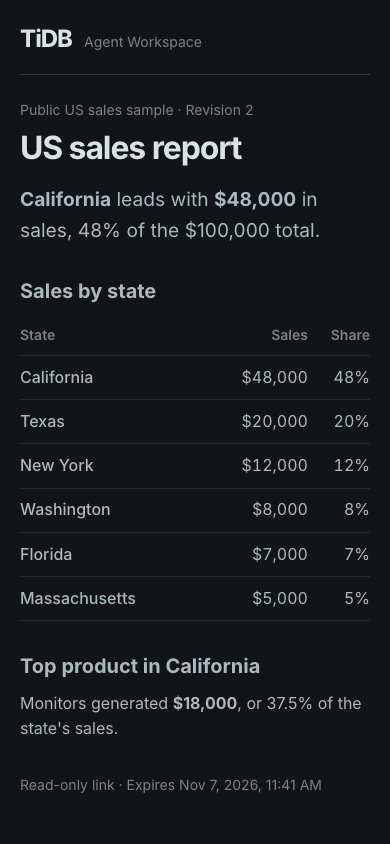
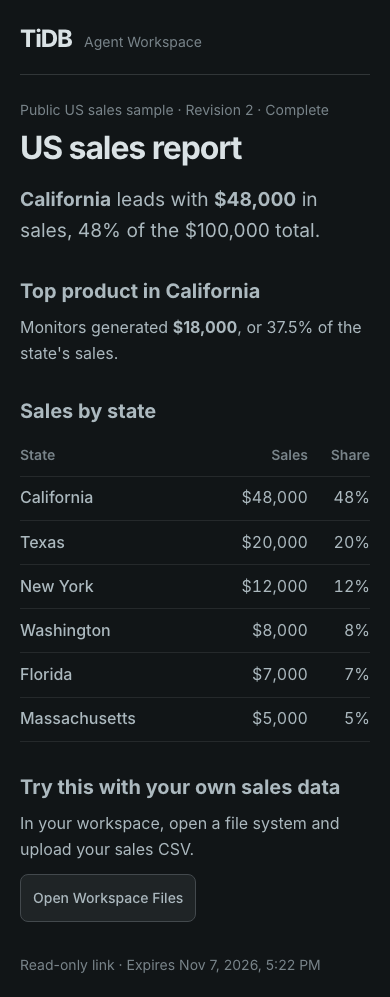
fix(studio): offer the next report question in the current chat

diff --git a/src/features/reports/TrialReportView.tsx b/src/features/reports/TrialReportView.tsx
@@ -1,5 +1,6 @@
 import { useEffect, useState, useSyncExternalStore } from 'react';
-import { Button, Stack, Text, Title } from '@tidbcloud/uikit';
+import { Button, Paper, Stack, Text, Title } from '@tidbcloud/uikit';
+import { TrialPrompt } from './TrialPrompt';
 import './trial-report.css';
 
 type Rows = [string, number][];
@@ -58,12 +59,35 @@ function Report({ report }: { report: SalesReport }) {
     <>
       <Text size="sm" c="var(--text-secondary)">
         Public US sales sample · Revision {report.revision}
+        {top && ' · Complete'}
       </Text>
       <Title order={1}>US sales report</Title>
       <p className="report-lead">
         <strong>{leader}</strong> leads with <strong>{money.format(sales)}</strong> in sales,{' '}
         {share(sales, total)} of the {money.format(total)} total.
       </p>
+      {top ? (
+        <section aria-labelledby="top-product">
+          <Title order={2} id="top-product">
+            Top product in {leader}
+          </Title>
+          <Text>
+            {top[0]} generated <strong>{money.format(top[1])}</strong>, or {share(top[1], sales)} of
+            the state's sales.
+          </Text>
+        </section>
+      ) : (
+        <Paper component="section" withBorder p="md" aria-labelledby="next-question">
+          <Title order={2} id="next-question">
+            Which product brought in the most sales in {leader}?
+          </Title>
+          <Text mb="sm">
+            Paste the question into your agent chat in the original project. Reopen this link after
+            your agent saves.
+          </Text>
+          <TrialPrompt leadingState={leader} />
+        </Paper>
+      )}
       <section aria-labelledby="state-sales">
         <Title order={2} id="state-sales">
           Sales by state
@@ -88,14 +112,19 @@ function Report({ report }: { report: SalesReport }) {
         </table>
       </section>
       {top && (
-        <section aria-labelledby="top-product">
-          <Title order={2} id="top-product">
-            Top product in {leader}
+        <section aria-labelledby="own-sales">
+          <Title order={2} id="own-sales">
+            Try this with your own sales data
           </Title>
-          <Text>
-            {top[0]} generated <strong>{money.format(top[1])}</strong>, or {share(top[1], sales)} of
-            the state's sales.
-          </Text>
+          <Text mb="sm">In your workspace, open a file system and upload your sales CSV.</Text>
+          <Button
+            component="a"
+            href={window.location.pathname.replace(/\/report\/?$/, '/#files')}
+            rel="noreferrer"
+            variant="default"
+          >
+            Open Workspace Files
+          </Button>
         </section>
       )}
       <footer>

diff --git a/src/features/reports/TrialPrompt.tsx b/src/features/reports/TrialPrompt.tsx
@@ -1,0 +1,60 @@
+import { useState } from 'react';
+import { Button, Stack, Text, Textarea } from '@tidbcloud/uikit';
+import { IconCheck, IconCopy03 } from '@tidbcloud/uikit/icons';
+
+const skillUrl = 'https://drive9.ai/studio/skills/drive9-workspace/SKILL.md';
+const trialInstruction = `Follow the official Drive9 skill at ${skillUrl} to find the top US state by sales in the public sample, show the calculation, and save a report I can continue in this project using only the free trial. Give me the read-only Studio link and the local report. If this is the first version, ask if I want to add the leading state’s top product in this chat.`;
+
+export function TrialPrompt({ leadingState }: { leadingState?: string }) {
+  const followUp = leadingState !== undefined;
+  const prompt = followUp
+    ? `Follow ${skillUrl} in the local project that created my Drive9 sales report. Add the top product by sales in ${leadingState} and its share of state sales to the same report, then give me the updated Studio link.`
+    : trialInstruction;
+  const [result, setResult] = useState<'idle' | 'copied' | 'manual'>('idle');
+  return (
+    <Stack className={followUp ? undefined : 'sign-in-path-action'} gap="xs">
+      <Button
+        fullWidth={!followUp}
+        w={followUp ? 'fit-content' : undefined}
+        variant="filled"
+        leftSection={
+          result === 'copied' ? (
+            <IconCheck size={18} aria-hidden />
+          ) : (
+            <IconCopy03 size={18} aria-hidden />
+          )
+        }
+        onClick={async () => {
+          try {
+            await navigator.clipboard.writeText(prompt);
+            setResult('copied');
+          } catch {
+            setResult('manual');
+          }
+        }}
+      >
+        {followUp ? 'Copy follow-up' : 'Copy prompt'}
+      </Button>
+      {result === 'manual' && (
+        <Textarea
+          label={
+            followUp
+              ? 'Select and copy the follow-up for your agent'
+              : 'Select and copy the prompt for your coding agent'
+          }
+          readOnly
+          autosize
+          value={prompt}
+          onFocus={(event) => event.currentTarget.select()}
+        />
+      )}
+      {(!followUp || result === 'copied') && (
+        <Text size="sm" ta={followUp ? 'left' : 'center'} role="status">
+          {result === 'copied'
+            ? 'Copied. Paste it into your project chat.'
+            : 'No account needed · 48-hour trial'}
+        </Text>
+      )}
+    </Stack>
+  );
+}

diff --git a/src/features/auth/SignInChoices.tsx b/src/features/auth/SignInChoices.tsx
@@ -2,7 +2,7 @@ import { Button, Group, Paper, Stack, Text, ThemeIcon } from '@tidbcloud/uikit';
 import { IconArrowRight, IconBrowser, IconTerminal } from '@tidbcloud/uikit/icons';
 import { Heading } from '../../ui/WorkspaceHeading';
 import { capture } from '../analytics/capture';
-import { CopyAgentTrial } from './CopyAgentTrial';
+import { TrialPrompt } from '../reports/TrialPrompt';
 
 type SignInChoicesProps = {
   label: string;
@@ -55,7 +55,7 @@ export function SignInChoices({
             Paste the prompt into Claude Code, Cursor, Codex, Pi, or another local coding agent.
             Your agent analyzes the sales sample and gives you a report link.
           </Text>
-          <CopyAgentTrial />
+          <TrialPrompt />
         </Paper>
         <Paper
           component="section"

diff --git a/console/public/skills/drive9-workspace/install.py b/console/public/skills/drive9-workspace/install.py
@@ -96,7 +96,7 @@ def install_assets(skills, runtime):
 
 
 # fmt: off
[2 lines of base64/hex data omitted]
 # fmt: on
 
 if __name__ == "__main__":

diff --git a/console/public/skills/drive9-workspace/SKILL.md b/console/public/skills/drive9-workspace/SKILL.md
@@ -10,8 +10,17 @@ description: Start or continue a free Drive9 public US sales report in this proj
 For the Studio free-trial prompt or a request to continue its sales report, use the project you are already in. The public sample requires no account, Workspace Key or payment method. Use only the public US sales fixture. Previous chat history is optional.
 
 1. Locate the installed helper at `~/.agents/skills/drive9-workspace/report.py` and its isolated Python under `~/.drive9/report-runtime/` (`bin/python` on macOS/Linux or `Scripts/python.exe` on Windows). On first use, download [the official installer](https://drive9.ai/studio/skills/drive9-workspace/install.py) over HTTPS to a temporary file. Inspect it and run it with Python 3.10+ in isolated mode (`python3 -I <downloaded-file>`, or `py -3 -I <downloaded-file>` on Windows), respecting the host's normal installation permissions. Agents that do not discover this skill automatically can follow the linked instructions directly and invoke the same helper by its absolute path.
-2. Invoke that isolated Python with `-I`, the absolute helper path and `start` in the current project. To add the leading state's top product to the same report, use `products`. Reuse the same directory or pass `--project` with its path. The helper owns the OS credential, verifies the input, computes the totals and reads the saved report back.
-3. Return the actual result, calculation, and a clickable absolute local file link from the JSON `report` field. For `synced`, return the clickable `studioUrl` labeled “View report in Studio” (or “在 Studio 查看报告”), the local Markdown, and the original expiry in the user's timezone. Anyone with that link can read the latest saved version until expiry. After a continuation, return the same link. If an older installed helper reports `synced` without `studioUrl`, update it once with the official installer from step 1 and repeat the same command in the same project. Never invent a URL or present a local-only result as viewable in Studio. After the first report, offer one follow-up they can paste into another local coding agent with the same project open: “Follow https://drive9.ai/studio/skills/drive9-workspace/SKILL.md to continue my Drive9 sales report in this project and add the top product in the leading state.” For `local-only`, explain the reported limitation; do not describe the result as remotely saved. Expired and forgotten bindings keep the local Markdown. Access expires 48 hours after registration. The next invocation for this project clears an expired key; `forget` removes it early. Only run `new` if the user explicitly wants a separate trial after expiry or removal.
+2. Invoke that isolated Python with `-I`, the absolute helper path and `start` in the current project. To add the leading state's top product to the same report, use `products`. Reuse the same directory or pass `--project` with its path. The helper owns the OS credential, verifies the input, computes the totals and reads the saved report back. It already saves the local Markdown and sample. Create extra project files only if requested.
+3. Use the returned `status` and saved `version` to finish the conversation in the user's language. Base all numbers on the helper's verified result.
+
+**Saved report (`synced`).** Lead with the finding and its calculation in one sentence. Give the clickable `studioUrl` (“View report in Studio”) and a single “Local Markdown” link using the absolute `report` path. Describe the Studio link as read-only to anyone with the link until the original expiry in the user's timezone. Use descriptive labels so internal paths stay out of the reply.
+
+- **Version 1:** End with one question the user can accept right here, naming the leading state: “Want me to add California’s top product and its share of the state’s sales to this report?” Wait for their answer. A “yes”, “好” or equivalent in context means run `products` in this same project. No copy/paste, tool switch or repeated setup is needed.
+- **Version 2 (including reopening a completed report):** Give the verified product, sales and share. On an update, tell the user the finding is now in the same report and return the original Studio link. On a reopen, describe what is already there. The sample analysis is complete. For someone ready to use their own data, point to [Workspace Files](https://drive9.ai/studio/#files), where they can open a file system and upload a CSV themselves. Keep private files separate from the public-sample trial.
+- **Switching agents:** Only when the user wants a handoff, give one portable prompt for another local agent in the same project: “Follow https://drive9.ai/studio/skills/drive9-workspace/SKILL.md to continue my Drive9 sales report in this project and add the top product in the leading state.” The first-version Studio report also offers a copyable follow-up.
+- If an older helper returns `synced` without `studioUrl`, update it once with the official installer and repeat the same command in the same project. Only show a Studio link returned by the helper.
+
+**Local or unavailable report.** For `local-only`, link the actual local file, explain what prevented a confirmed remote save, and give the recovery step from the helper's message. For `expired` or `forgotten`, offer the retained Markdown if available. Access expires 48 hours after registration. The next invocation for this project clears an expired key; `forget` removes it early. Only run `new` when the user explicitly requests a separate trial after expiry or removal.
 
 When the task calls for a private Workspace or spending, explain that a trial grants neither. Keep using the following authenticated API flow for existing customer integrations.
 

diff --git a/docs/api-guide.md b/docs/api-guide.md
@@ -203,4 +203,4 @@ addressable `/resources/{id}/setup-attempts` resource with explicit idempotency;
 Resource deletion may return 202; inspect Location and `deletion.phase`. Acceptance does not
 claim physical erasure and provider-specific unsupported deletion stays explicit.
 
-For an account-free public US sales report, open your project in a local coding agent such as Claude Code, Cursor, Codex, or Pi. Choose **With your coding agent → Copy prompt** in Studio and paste it into your agent’s project chat. The agent needs HTTPS access to the linked instructions and permission to run the report helper locally. A native credential store under the same OS user lets another agent resume the saved report in that project. After saving, the agent returns a read-only Studio link and the local Markdown. Open the same link after another agent continues the report in this project. Anyone with the full link can view the latest saved revision until the original trial expires. The local Markdown survives expiry. See [report links](decisions/0053-trial-report-view.md). The local trial and its recovery boundaries are described in [ADR 0052](decisions/0052-anonymous-agent-report.md).
+For an account-free public US sales report, open your project in a local coding agent such as Claude Code, Cursor, Codex, or Pi. Choose **With your coding agent → Copy prompt** in Studio and paste it into your agent’s project chat. The agent needs HTTPS access to the linked instructions and permission to run the report helper locally. A native credential store under the same OS user lets another agent resume the saved report in that project. After saving, the agent returns a read-only Studio link and the local Markdown. Reply yes in the same chat to add the leading state’s top product. Reopen the original link to see the result. For a fresh agent chat, copy the follow-up from the first-version report and use the same local project. The completed sample links to Workspace Files for working with your own CSV. Anyone with the full link can view the latest saved revision until the original trial expires. The local Markdown survives expiry. See [report links](decisions/0053-trial-report-view.md). The local trial and its recovery boundaries are described in [ADR 0052](decisions/0052-anonymous-agent-report.md).

diff --git a/docs/standards/product-experience.md b/docs/standards/product-experience.md
@@ -86,6 +86,11 @@ and save a report). Present agent names as examples. Make the prompt usable from
 project chat, including tools that open a skill by URL. Group browser actions with the browser path and distinguish account sign-in
 from the two ways to try Studio.
 
+After the first saved agent report, name the finding and offer one concrete follow-up that a
+person can accept in the current chat. Reserve cross-agent handoff instructions for someone
+who chooses that path. Show the new finding on the original link after a confirmed update.
+Distinguish a completed sample from the separate choice to bring data into a workspace.
+
 **People and agent onboarding (owner direction, 2026-11-03):** a Guest can explore the US sales
 sample and obtain a real read-only analysis without installing an agent or creating a key. Offer a
 separate agent path using the same saved sample. An agent's durable, inspectable report and a
